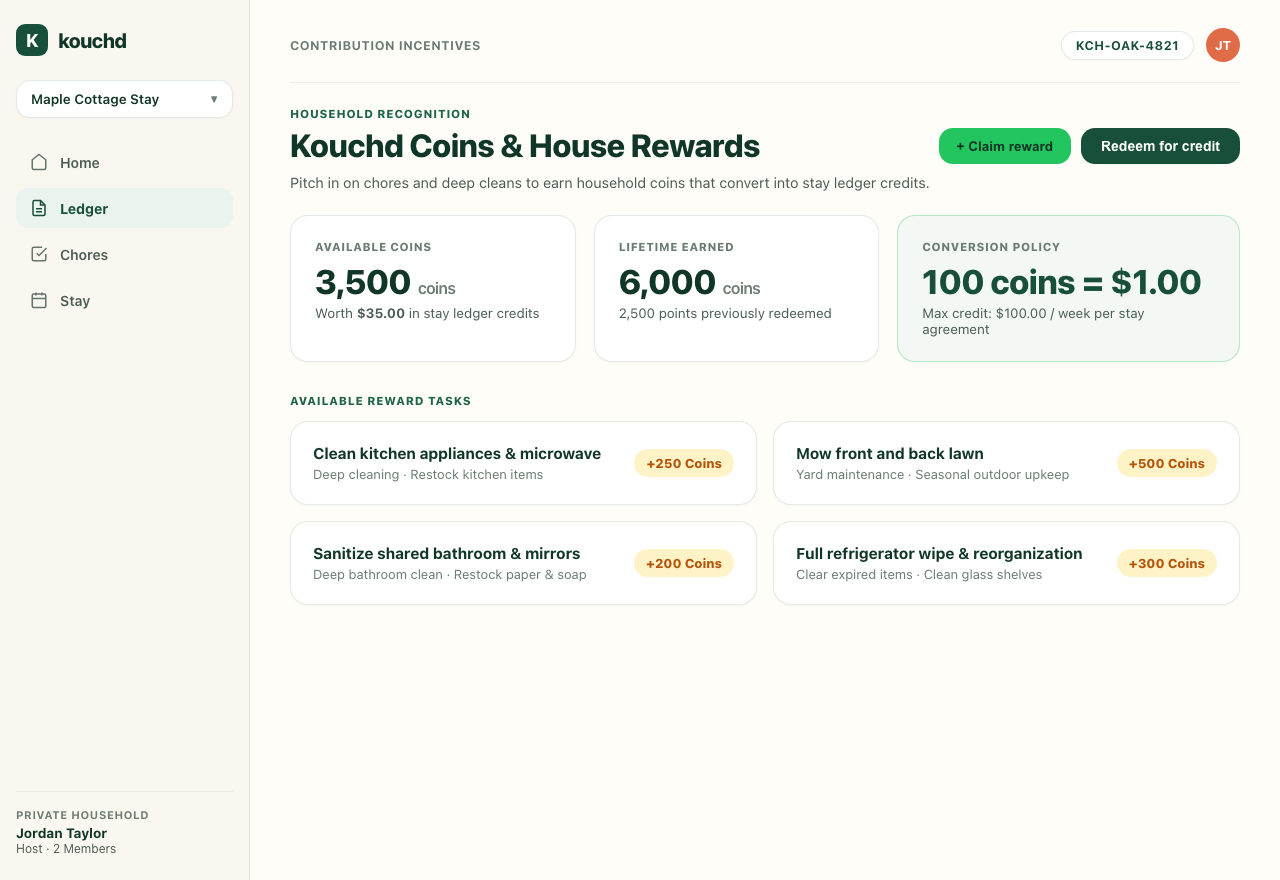
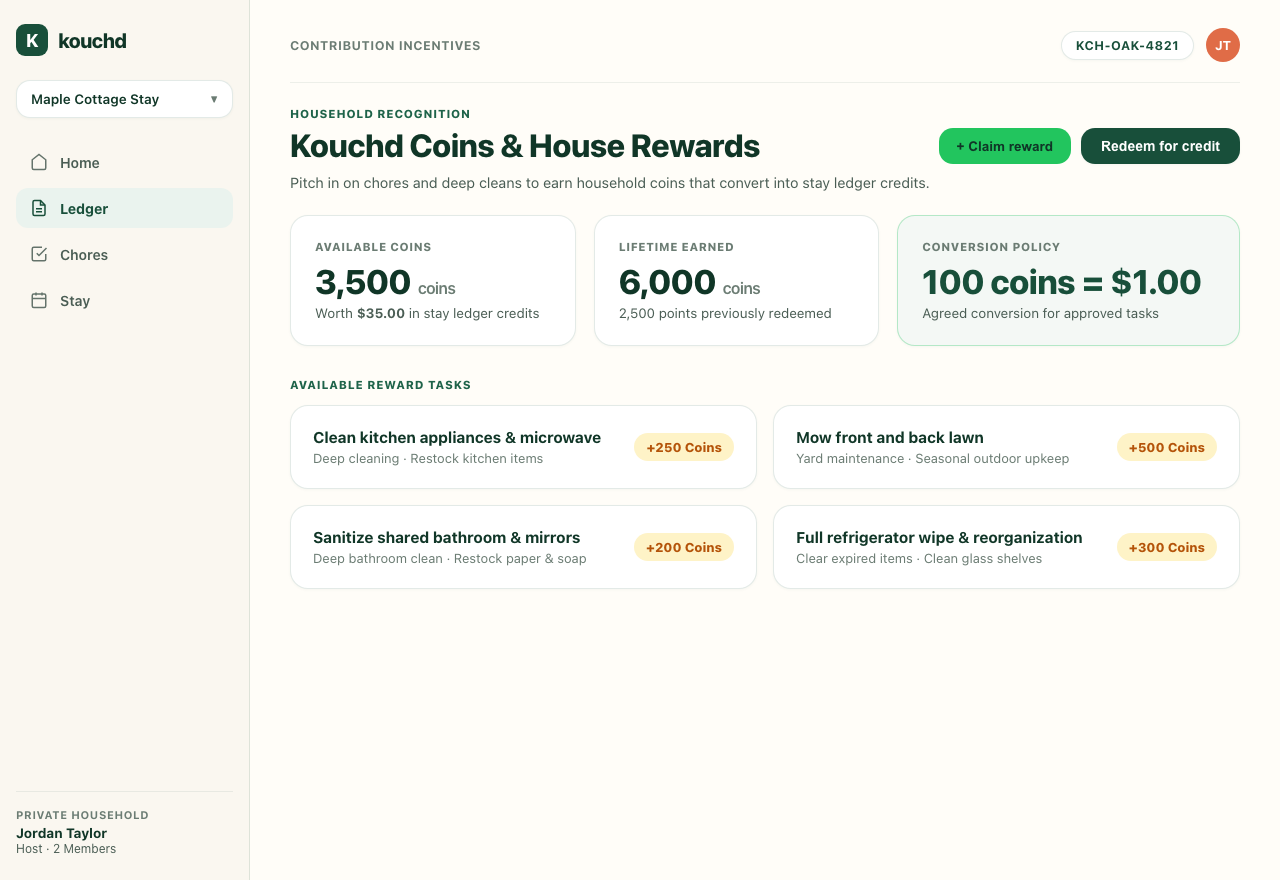
docs: address review findings for joining, lifecycle, rewards, and ledger actions

diff --git a/docs/internal/CHANGELOG.md b/docs/internal/CHANGELOG.md
@@ -11,6 +11,7 @@ Internal engineering record. This file is excluded from Mintlify navigation and 
 - Added dedicated `add-contribution-modal.png` screenshot and step-by-step contribution logging guidance in `help/guests/logging-contributions.mdx`.
 - Removed orphaned and unreferenced duplicate file `help/using-notifications.mdx`.
 - Synchronized public changelog (`help/product/changelog.mdx`) with verified October 2026 product updates (v0.5.2 patch, brand building design tokens, app subdomain routing, and reminder caps).
+- Addressed PR #47 review findings: aligned referral code preview steps with implemented fields and moved full guidelines review to post-join onboarding; distinguished active membership creation from agreement acceptance using exact `Accept Terms & Enter Household` button label; removed periodic reward cap claims unenforced by backend mutations; aligned ledger recovery guidance and screenshot row controls with web workspace actions.
 - Validated with `mintlify validate` (build passed), `mintlify broken-links` (zero broken links), and `git diff --check`.
 
 ## 2026-10-12 — iOS navigation bar modernization and auth sheet loop resolution
